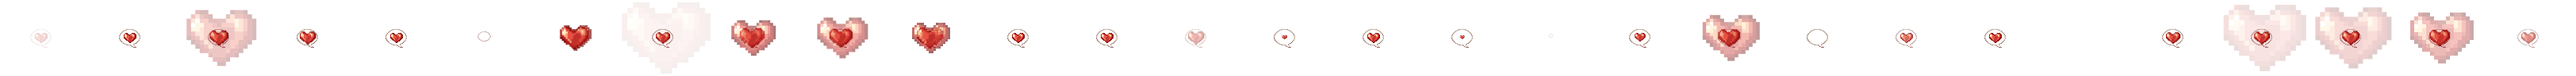
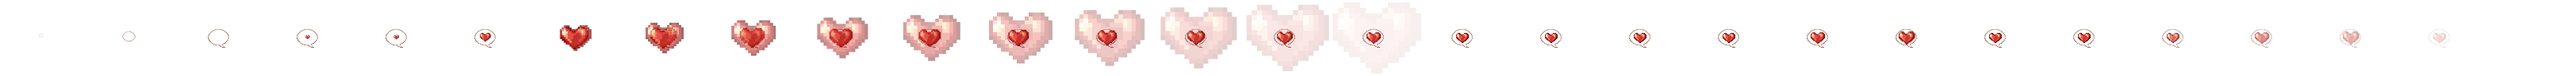
Ticket 10 : Display emotions

diff --git a/game/public/game/Player.js b/game/public/game/Player.js
@@ -20,14 +20,22 @@ var Player = function(id, x, y, game, currentUser, pseudo, tileMap) {
 		{
 			"sprite": "sorry",
 			"cmd": "/sorry",
-			"fps": 10,
-			"collapsedms": 4000
+			"fps": 12
+		},
+		{
+			"sprite": "love-eyes",
+			"cmd": "/leyes",
+			"fps": 12
+		},
+		{
+			"sprite": "money",
+			"cmd": "/money",
+			"fps": 12
 		},
 		{
 			"sprite": "love",
 			"cmd": "/love",
-			"fps": 4,
-			"collapsedms": 2000
+			"fps": 12
 		}
 	];
 	this.hitZone = game.add.graphics(-(hitPadding / 2), -(hitPadding / 2)); // Draw hit zone.
@@ -138,12 +146,12 @@ var Player = function(id, x, y, game, currentUser, pseudo, tileMap) {
 			var spriteName = emoticon[0].sprite;
 			var frame = game.cache.getFrameData(spriteName).getFrame(0);
 			self.spriteEmoticon = game.add.sprite(-frame.width, -frame.height, spriteName);
-	    self.spriteEmoticon.animations.add('walk');
+	    var walkAnim = self.spriteEmoticon.animations.add('walk');
 	    self.spriteEmoticon.animations.play('walk', emoticon[0].fps, false);
-			self.sprite.addChild(self.spriteEmoticon);
-			self.messageTimeout = setTimeout(function() {
+			walkAnim.onComplete.add(function() {
 				self.removeEmoticon();
-			}, emoticon[0].collapsedms);
+			}, self);
+			self.sprite.addChild(self.spriteEmoticon);
 		} else {
 			self.tchatBubble.html(message);
 			self.updateMessagePosition();

diff --git a/game/public/states/Splash.js b/game/public/states/Splash.js
@@ -70,7 +70,9 @@ Splash.prototype = {
 			self.game.load.script('GoogleMapService', 'public/clients/googleMapService.js');
 			// Load the emoticons.
 			self.game.load.spritesheet('sorry', 'styles/emoticons/sorry.png', 32, 50, 25);
-			self.game.load.spritesheet('love', 'styles/emoticons/love-eyes.png', 32, 32, 5);
+			self.game.load.spritesheet('love-eyes', 'styles/emoticons/love-eyes.png', 31, 24, 5);
+			self.game.load.spritesheet('money', 'styles/emoticons/money.png', 27, 24, 6);
+			self.game.load.spritesheet('love', 'styles/emoticons/love.png', 112, 97, 29);
 		}, this);
 		bg1Loader.start();
 	},
